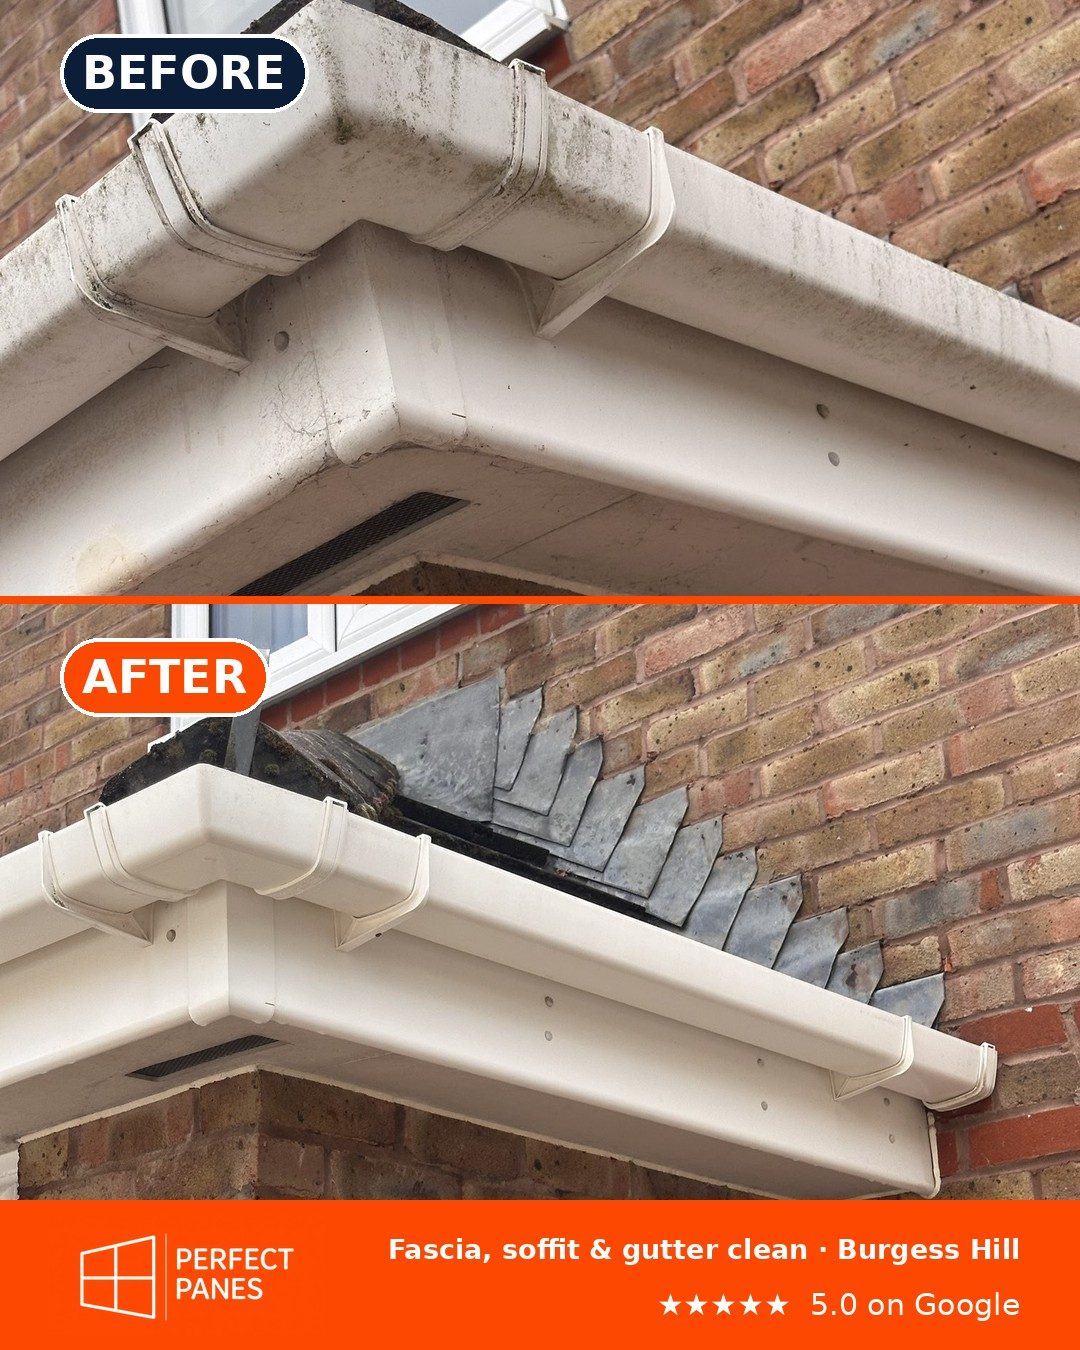
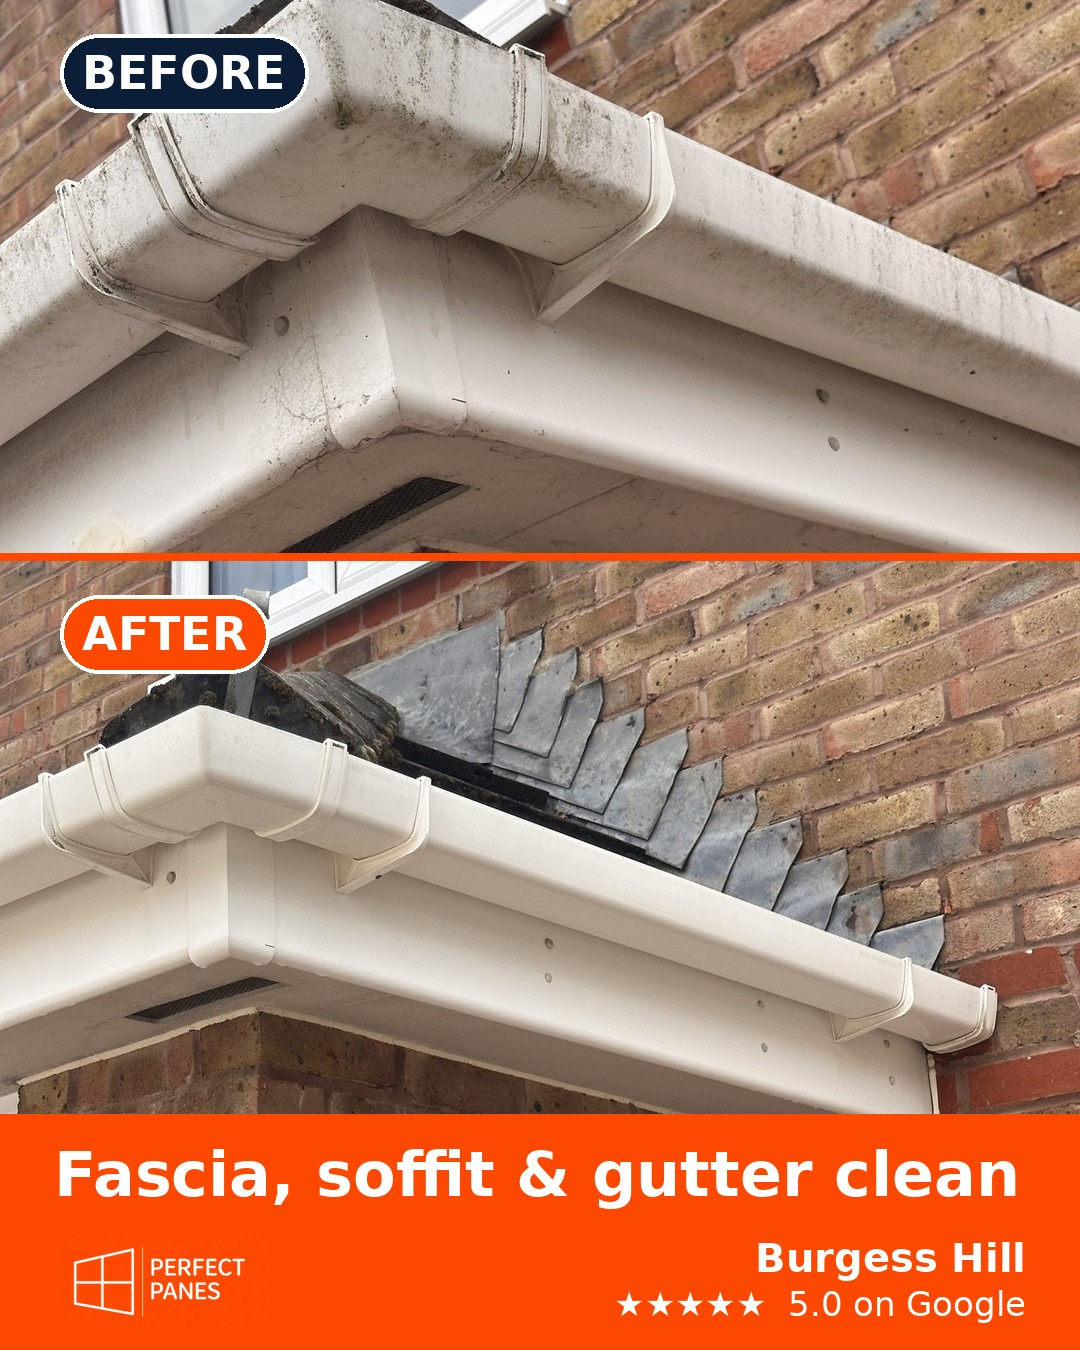
Taller strip with large service line for the Instagram template
Claude-Session: https://claude.ai/code/session_01UCBK5kGpkmzmPTyLieNkBC

diff --git a/brand/make_post.py b/brand/make_post.py
@@ -26,14 +26,28 @@ def strip(t,d,line,W,H,bar,white):
     s='★★★★★  5.0 on Google'
     d.text((W-60-d.textlength(line,font=fs),y0+int(bar*0.22)),line,font=fs,fill='white')
     d.text((W-60-d.textlength(s,font=f3),y0+int(bar*0.58)),s,font=f3,fill='white')
+
+def strip_big(t,d,service,town,W,H,bar,white):
+    """Taller strip for the 4:5 Instagram image: service line large across the top, logo and town underneath."""
+    y0=H-bar; pad=54
+    size=66
+    while size>30 and d.textlength(service,font=ImageFont.truetype(B,size))>W-2*pad: size-=1
+    fs=ImageFont.truetype(B,size)
+    d.text((pad,y0+22+(66-size)//2),service,font=fs,fill='white')
+    lh=96; lw=int(white.width*lh/white.height); ly=y0+bar-lh-22
+    L=white.resize((lw,lh),Image.LANCZOS); t.paste(L,(pad-6,ly),L)
+    f3=ImageFont.truetype(B,40); f4=ImageFont.truetype(R,34)
+    d.text((W-pad-d.textlength(town,font=f3),ly+2),town,font=f3,fill='white')
+    s2='★★★★★  5.0 on Google'
+    d.text((W-pad-d.textlength(s2,font=f4),ly+52),s2,font=f4,fill='white')
 def build(before,after,line,out,cb=(0.5,0.3),ca=(0.5,0.4)):
     white,ORANGE=logo()
     b=ImageOps.exif_transpose(Image.open(before)).convert('RGB'); a=ImageOps.exif_transpose(Image.open(after)).convert('RGB')
     # tall 4:5
-    W,H,bar,g=1080,1350,150,8; ph=(H-bar-g)//2
+    W,H,bar,g=1080,1350,236,8; ph=(H-bar-g)//2
     t=Image.new('RGB',(W,H),ORANGE)
     t.paste(ImageOps.fit(b,(W,ph),Image.LANCZOS,centering=cb),(0,0)); t.paste(ImageOps.fit(a,(W,ph),Image.LANCZOS,centering=ca),(0,ph+g))
-    d=ImageDraw.Draw(t); pill(d,'BEFORE',60,34,NAVY,46); pill(d,'AFTER',60,ph+g+34,ORANGE,46); strip(t,d,line,W,H,bar,white)
+    d=ImageDraw.Draw(t); pill(d,'BEFORE',60,34,NAVY,46); pill(d,'AFTER',60,ph+g+34,ORANGE,46); sv,tn=[x.strip() for x in line.split('·')]; strip_big(t,d,sv,tn,W,H,bar,white)
     t.save(out+'-tall.jpg',quality=90)
     # wide for Google
     W,H,bar,g=2000,1280,170,10; pw=(W-g)//2; phh=H-bar
